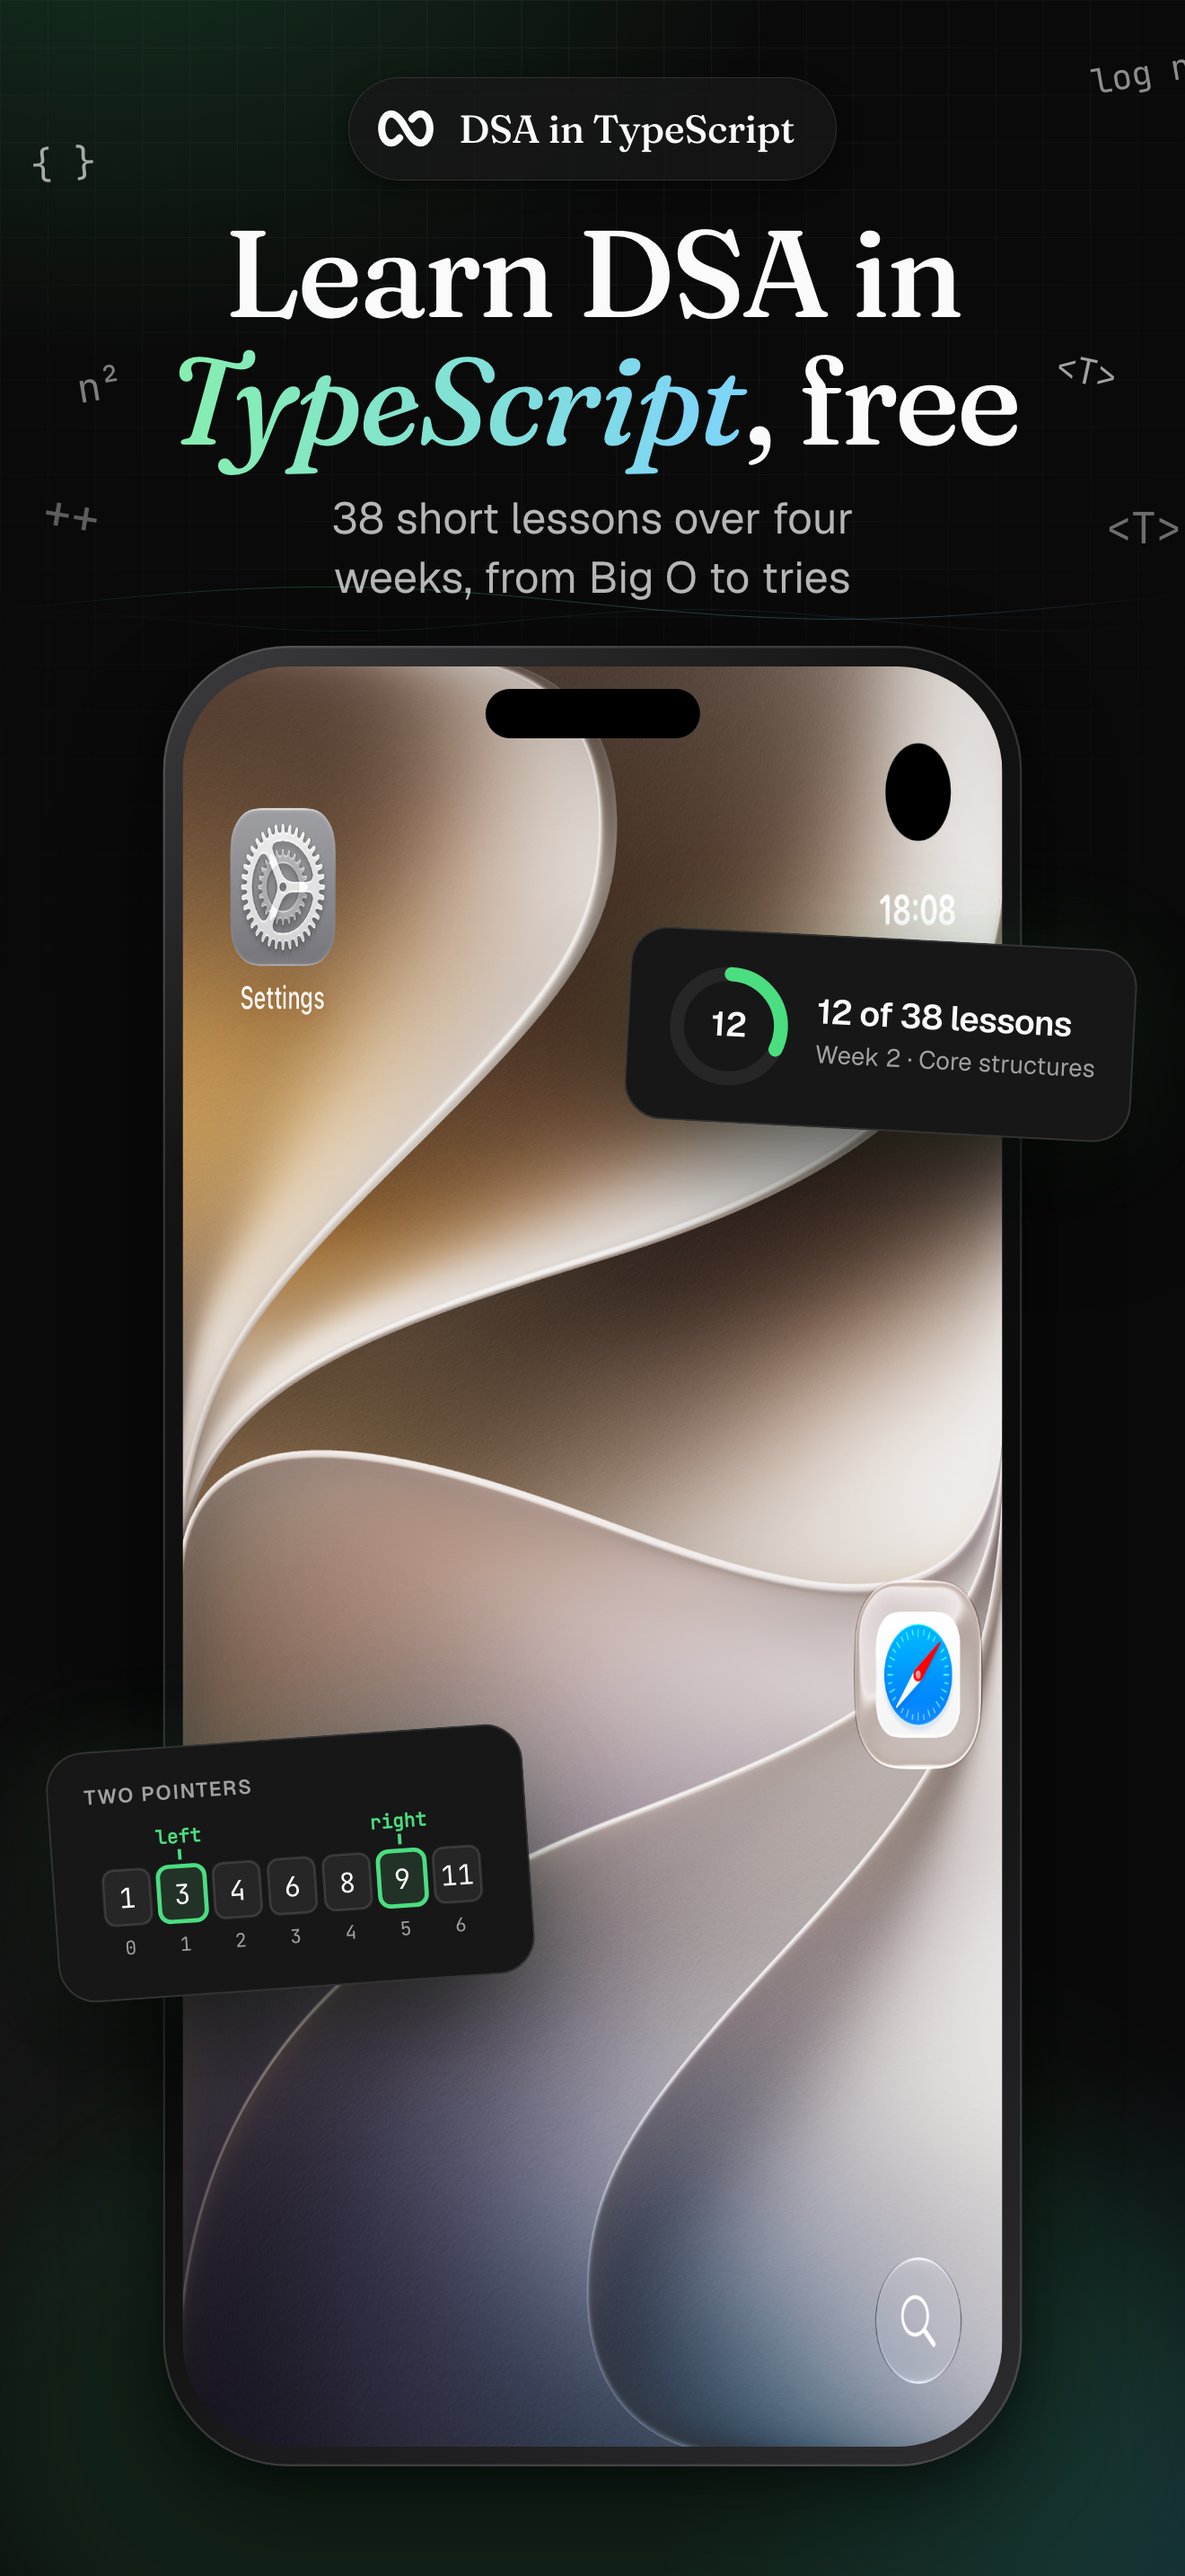
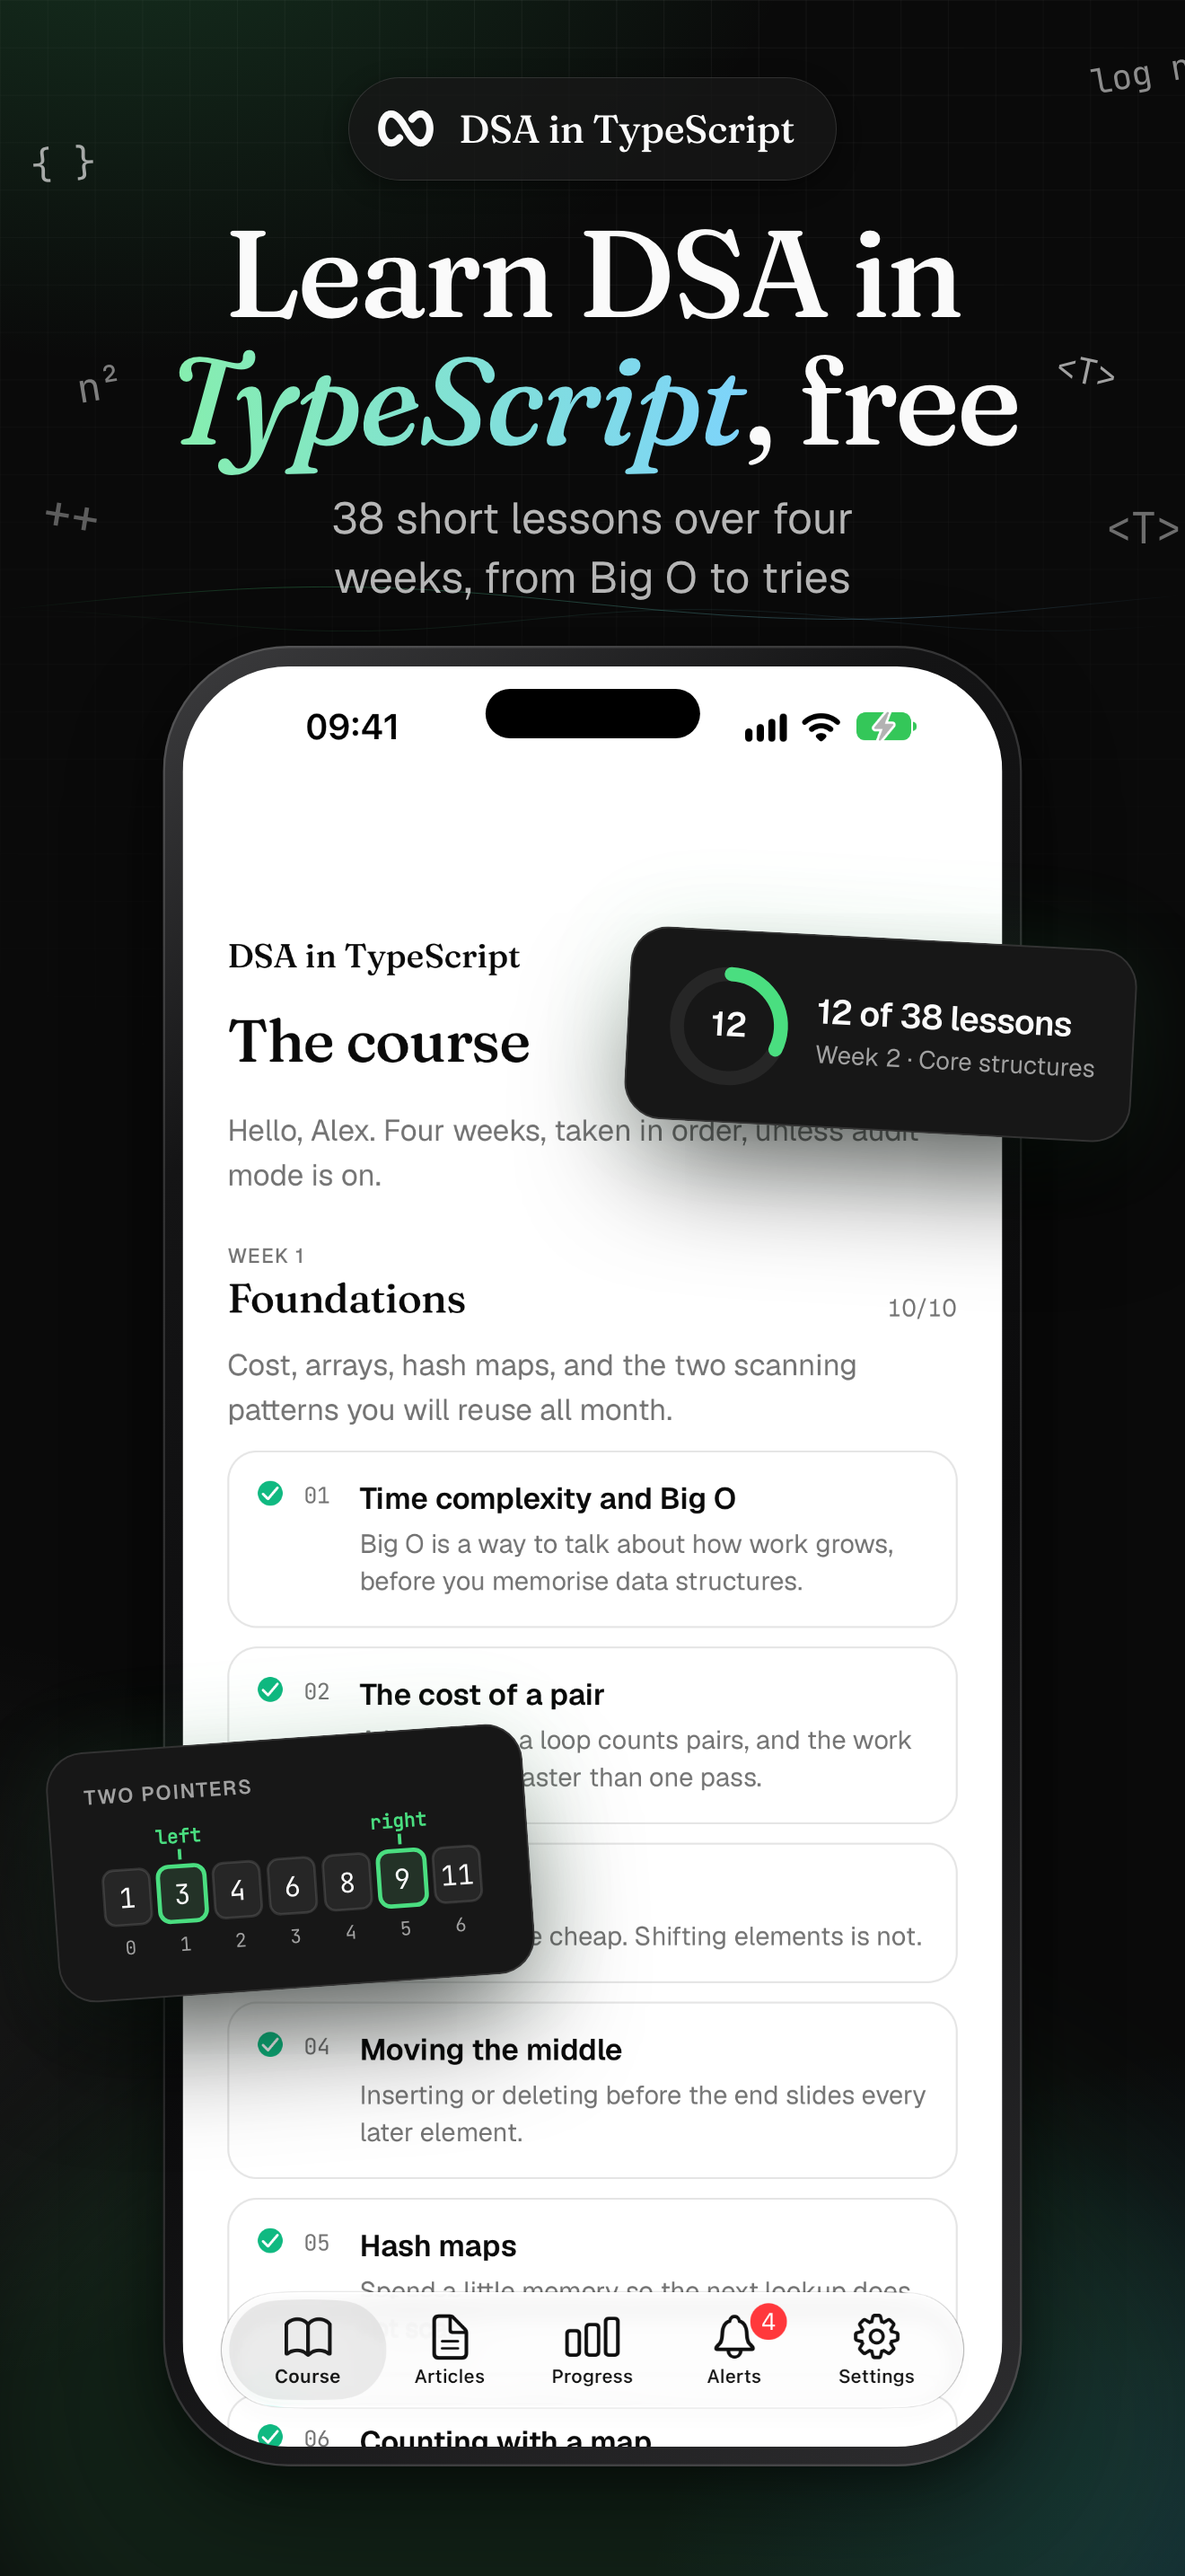
Capture the App Store screens from the simulator and show them on the landing page
store/capture adds a UI test that signs in as a local learner and saves the
course, a lesson, a gap exercise half filled, the same exercise passed (dark
mode), progress and the articles at each device's resolution. The iPhone
6.9" and 6.3" sets and the Header and Search Results creatives are composed
from those captures, and store/README.md records how they reach App Store
Connect through the asset library, including the iPhone Duo slot EAS
Metadata does not know.

The landing page's app section now cycles through the real iPhone screens.

diff --git a/apps/mobile/store/capture/ShotsUITests.swift b/apps/mobile/store/capture/ShotsUITests.swift
@@ -1,0 +1,143 @@
+import XCTest
+
+/// Walks the installed app through the screens the App Store listing shows and
+/// saves each at the device's native resolution. capture.sh passes, as
+/// TEST_RUNNER_ variables: SHOTS_DIR, SHOTS_EMAIL, SHOTS_PASSWORD, and
+/// SHOTS_LESSON (the lesson title to open, "Stacks" by default).
+final class ShotsUITests: XCTestCase {
+  let app = XCUIApplication(bundleIdentifier: "com.datastructuresandalgorithms.app")
+  var env: [String: String] { ProcessInfo.processInfo.environment }
+
+  override func setUp() {
+    continueAfterFailure = false
+    app.launch()
+    signInIfNeeded()
+  }
+
+  func testCourse() { tab("Course"); settle(4); shot("course") }
+
+  func testProgress() { tab("Progress"); settle(4); shot("progress") }
+
+  func testArticles() {
+    tab("Articles")
+    settle(3)
+    // A fresh launch can swallow the first tap: try again until the screen shows.
+    for _ in 0..<4 where !app.staticTexts["Articles"].exists || app.staticTexts["The course"].exists { tab("Articles"); settle(2) }
+    shot("articles")
+  }
+
+  func testLesson() {
+    openLesson()
+    // Let the reading's diagrams render.
+    settle(8)
+    shot("lesson")
+  }
+
+  /// The gap exercise half done: the first blank filled, the second waiting.
+  func testPractice() {
+    openLesson()
+    scrollTo(label: "Empty gap")
+    fill(gapIndex: 0, with: env["SHOTS_GAP_0"] ?? "last !== opener")
+    settle(1)
+    // Select the next blank so its outline shows where a snippet will go.
+    app.buttons.matching(NSPredicate(format: "label == %@", "Empty gap")).firstMatch.tap()
+    settle(1)
+    shot("practice")
+  }
+
+  /// The same exercise after a pass: each blank outlined in green.
+  func testPassed() {
+    openLesson()
+    scrollTo(label: "Empty gap")
+    fill(gapIndex: 0, with: env["SHOTS_GAP_0"] ?? "last !== opener")
+    fill(gapIndex: 0, with: env["SHOTS_GAP_1"] ?? "stack.length === 0")
+    let submit = app.buttons["Submit"].firstMatch
+    if submit.exists { submit.tap() }
+    settle(6)
+    shot("passed")
+  }
+
+  // MARK: - Helpers
+
+  private func openLesson() {
+    tab("Course")
+    settle(2)
+    let title = env["SHOTS_LESSON"] ?? "Stacks"
+    let row = app.buttons.matching(NSPredicate(format: "label BEGINSWITH %@", "\(title). ")).firstMatch
+    for _ in 0..<30 where !(row.exists && row.isHittable) { app.swipeUp(velocity: .slow) }
+    row.tap()
+    settle(5)
+  }
+
+  private func scrollTo(label: String) {
+    let el = app.buttons.matching(NSPredicate(format: "label == %@", label)).firstMatch
+    for _ in 0..<40 where !(el.exists && el.isHittable && el.frame.maxY < app.frame.height * 0.74) {
+      // On an iPad the exercise has its own pane on the right.
+      if app.frame.width > 900 {
+        app.coordinate(withNormalizedOffset: CGVector(dx: 0.78, dy: 0.7)).press(forDuration: 0.05, thenDragTo: app.coordinate(withNormalizedOffset: CGVector(dx: 0.78, dy: 0.45)))
+      } else {
+        app.coordinate(withNormalizedOffset: CGVector(dx: 0.5, dy: 0.7)).press(forDuration: 0.05, thenDragTo: app.coordinate(withNormalizedOffset: CGVector(dx: 0.5, dy: 0.45)))
+      }
+    }
+    settle(1)
+  }
+
+  /// Taps the nth empty blank, then the snippet with that text.
+  private func fill(gapIndex: Int, with text: String) {
+    let gaps = app.buttons.matching(NSPredicate(format: "label == %@", "Empty gap"))
+    XCTAssertTrue(gaps.element(boundBy: gapIndex).waitForExistence(timeout: 5), "A blank is there")
+    gaps.element(boundBy: gapIndex).tap()
+    settle(0.6)
+    let chips = app.buttons.matching(NSPredicate(format: "label == %@", text))
+    XCTAssertTrue(chips.firstMatch.waitForExistence(timeout: 5), "\(text) is offered")
+    chips.element(boundBy: chips.count - 1).tap()
+    settle(0.8)
+  }
+
+  private func signInIfNeeded() {
+    let email = app.textFields.firstMatch
+    guard email.waitForExistence(timeout: 8) else { return }
+    let address = env["SHOTS_EMAIL"] ?? ""
+    for _ in 0..<4 where (email.value as? String) != address {
+      email.tap()
+      settle(1)
+      let current = (email.value as? String) ?? ""
+      if !current.isEmpty && current != "Email" {
+        email.typeText(String(repeating: XCUIKeyboardKey.delete.rawValue, count: current.count + 2))
+      }
+      email.typeText(address)
+    }
+    let password = app.secureTextFields.firstMatch
+    password.tap()
+    password.typeText(env["SHOTS_PASSWORD"] ?? "")
+    app.buttons["Sign in"].firstMatch.tap()
+    let springboard = XCUIApplication(bundleIdentifier: "com.apple.springboard")
+    let deadline = Date().addingTimeInterval(40)
+    while Date() < deadline && !app.tabBars.firstMatch.exists && !app.buttons["Course"].exists {
+      for label in ["Not Now", "Don’t Allow", "Don't Allow", "Not now", "Cancel"] {
+        if app.buttons[label].exists { app.buttons[label].tap() }
+        if springboard.buttons[label].exists { springboard.buttons[label].tap() }
+      }
+      settle(1)
+    }
+    settle(3)
+  }
+
+  private func tab(_ name: String) {
+    let bar = app.tabBars.buttons[name]
+    if bar.waitForExistence(timeout: 8) { bar.tap() } else { app.buttons[name].firstMatch.tap() }
+    if bar.exists { bar.tap() }
+  }
+
+  private func settle(_ seconds: TimeInterval = 3) {
+    _ = XCTWaiter.wait(for: [XCTestExpectation(description: "settle")], timeout: seconds)
+  }
+
+  private func shot(_ name: String) {
+    let dir = env["SHOTS_DIR"] ?? NSTemporaryDirectory()
+    let png = XCUIScreen.main.screenshot().pngRepresentation
+    let url = URL(fileURLWithPath: dir).appendingPathComponent("\(name).png")
+    try? FileManager.default.createDirectory(atPath: dir, withIntermediateDirectories: true)
+    XCTAssertNoThrow(try png.write(to: url))
+  }
+}

diff --git a/apps/mobile/store/compose/creative.html b/apps/mobile/store/compose/creative.html
@@ -42,8 +42,8 @@
   .glow { position: absolute; left: 50%; top: 50%; width: 46vw; height: 70vh; transform: translate(-50%, -50%); border-radius: 50%; background: rgba(74, 222, 128, 0.08); filter: blur(8vh); }
 
   /* Header: headline in the centre, cards around it. */
-  .header { --chip: 3.4vh; --h1: 14vh; --sub: 4vh; --u: 1.85vh; }
-  .header .copy { position: absolute; left: 50%; top: 50%; transform: translate(-50%, -50%); display: flex; flex-direction: column; align-items: center; text-align: center; gap: 2.8vh; width: 42vw; }
+  .header { --chip: 3.4vh; --h1: 12.5vh; --sub: 3.8vh; --u: 1.85vh; }
+  .header .copy { position: absolute; left: 50%; top: 50%; transform: translate(-50%, -50%); display: flex; flex-direction: column; align-items: center; text-align: center; gap: 2.6vh; width: 44vw; }
 
   /* Search Results: copy left, the app on the right. */
   .search { --chip: 2.7vh; --h1: 11vh; --sub: 3.1vh; --u: 1.25vh; --hang: -30%; }

diff --git a/apps/web/components/app-showcase.tsx b/apps/web/components/app-showcase.tsx
@@ -370,7 +370,7 @@ function Glyph({
   return (
     <motion.span className="absolute" style={{ left: glyph.x, top: glyph.y, y: still ? 0 : y }}>
       <motion.span
-        className={`block font-mono ${glyph.size} ${glyph.tone}`}
+        className={`block font-mono whitespace-nowrap ${glyph.size} ${glyph.tone}`}
         animate={still ? undefined : { y: [0, -12, 0], rotate: [0, 6, 0] }}
         transition={{ duration: glyph.duration, repeat: Infinity, ease: "easeInOut" }}
       >

diff --git a/apps/mobile/store/capture/add-ui-tests.rb b/apps/mobile/store/capture/add-ui-tests.rb
@@ -1,0 +1,36 @@
+# Adds the ShotsUITests UI-testing bundle (and a scheme to run it) to the
+# generated ios/ project. ios/ is rebuilt by `expo prebuild`, so capture.sh runs
+# this each time; it is a no-op when the target is already there.
+#
+# Runs on the xcodeproj gem that ships with CocoaPods.
+require "xcodeproj"
+
+root = File.expand_path("../..", __dir__)
+project_path = File.join(root, "ios/DSAinTypeScript.xcodeproj")
+project = Xcodeproj::Project.open(project_path)
+exit 0 if project.targets.any? { |t| t.name == "ShotsUITests" }
+
+app = project.targets.find { |t| t.name == "DSAinTypeScript" }
+target = project.new_target(:ui_test_bundle, "ShotsUITests", :ios, "16.4")
+target.add_dependency(app)
+group = project.main_group.find_subpath("ShotsUITests", true)
+group.set_source_tree("SOURCE_ROOT")
+file = group.new_reference(File.join(__dir__, "ShotsUITests.swift"))
+target.add_file_references([file])
+target.build_configurations.each do |c|
+  c.build_settings["PRODUCT_NAME"] = "$(TARGET_NAME)"
+  c.build_settings["TEST_TARGET_NAME"] = "DSAinTypeScript"
+  c.build_settings["PRODUCT_BUNDLE_IDENTIFIER"] = "com.datastructuresandalgorithms.app.shots"
+  c.build_settings["SWIFT_VERSION"] = "5.0"
+  c.build_settings["GENERATE_INFOPLIST_FILE"] = "YES"
+  c.build_settings["TARGETED_DEVICE_FAMILY"] = "1,2"
+  c.build_settings["CODE_SIGNING_ALLOWED"] = "NO"
+end
+project.save
+
+scheme = Xcodeproj::XCScheme.new
+scheme.add_build_target(app)
+scheme.add_test_target(target)
+scheme.set_launch_target(app)
+scheme.save_as(project_path, "ShotsUITests", true)
+puts "Added ShotsUITests"

diff --git a/apps/mobile/store/README.md b/apps/mobile/store/README.md
@@ -32,3 +32,23 @@ node store/compose/compose.mjs creatives  # Header and Search Results only
 ```
 
 Each shot is `template.html` rendered by headless Chrome at the exact App Store size and flattened to an opaque PNG. Headlines, subtitles and themes (ink, paper, dusk) are the `listing` in `compose.mjs`. The glyph field and the floating cards (two pointers, a binary search tree, a linked list, Big O curves, a gap chip, the test result) come from `art.mjs`.
+
+## 3. Upload
+
+App Store Connect keeps media in the app's asset library and places each image on a version's localization. The flow is Apple's [asset library API](https://developer.apple.com/documentation/appstoreconnectapi/uploading-and-managing-image-assets):
+
+1. `POST /v1/appAssetLibraryImages` with `fileName`, `fileSize`, `category` (`APP_SCREENSHOTS_AND_PREVIEWS` for screenshots, `CREATIVE_ASSETS` for the Header and Search Results) and the `assetLibrary` relationship (the app's id). The response lists `uploadOperations`.
+2. `PUT` the bytes to each operation's URL with its headers.
+3. `PATCH` the image with `uploaded: true`, then wait for `PREPARE_FOR_SUBMISSION`.
+4. `POST /v1/appAssetLibraryPlacements` on the new version's `appStoreVersionLocalization`, then order each group with `POST /v1/appAssetLibraryPlacementOrderingRequests`.
+
+| Set | placementType | placementGroup |
+| --- | --- | --- |
+| iphone | `APP_SCREENSHOT` | `IPHONE_DYNAMIC_ISLAND_LARGE_PROFILE` |
+| iphone-6.3 | `APP_SCREENSHOT` | `IPHONE_DYNAMIC_ISLAND_MEDIUM_PROFILE` |
+| ipad | `APP_SCREENSHOT` | `IPAD_13_PROFILE` |
+| duo | `APP_SCREENSHOT` | `IPHONE_DUO_PROFILE` |
+| creatives/header.png | `PRODUCT_PAGE_HEADER_ASSET` | `DEFAULT_PROFILE` |
+| creatives/search.png | `APP_STORE_SEARCH_RESULTS_ASSET` | `DEFAULT_PROFILE` |
+
+A placement on an approved version is refused, so place new media on the version being prepared. A version starts with the previous version's placements: remove those first, since a group holds at most ten screenshots and one header.

diff --git a/apps/mobile/README.md b/apps/mobile/README.md
@@ -60,10 +60,10 @@ Screens put their content in `frame(layout, measure.*)`, a centred column capped
 
 ## App Store listing
 
-`store.config.json` holds the name, subtitle, promotional text, description, keywords, release notes and the screenshot sets for EAS Metadata. Push it with:
+`store.config.json` holds the name, subtitle, promotional text, description, keywords and release notes for EAS Metadata:
 
 ```bash
 npx eas-cli@latest metadata:push --profile production
 ```
 
-The screenshots are real simulator captures, set in device frames by `store/compose/compose.mjs` (see `store/README.md`). EAS Metadata does not know the iPhone Duo display type or the product page's Header and Search Results creatives, so upload `store/screenshots/duo` and `store/screenshots/creatives` in App Store Connect by hand.
+The screenshots and the product page's Header and Search Results creatives are real simulator captures, set in device frames by `store/compose/compose.mjs`. They are uploaded through App Store Connect's asset library, which also covers the iPhone Duo slot that EAS Metadata does not know. See `store/README.md`.
